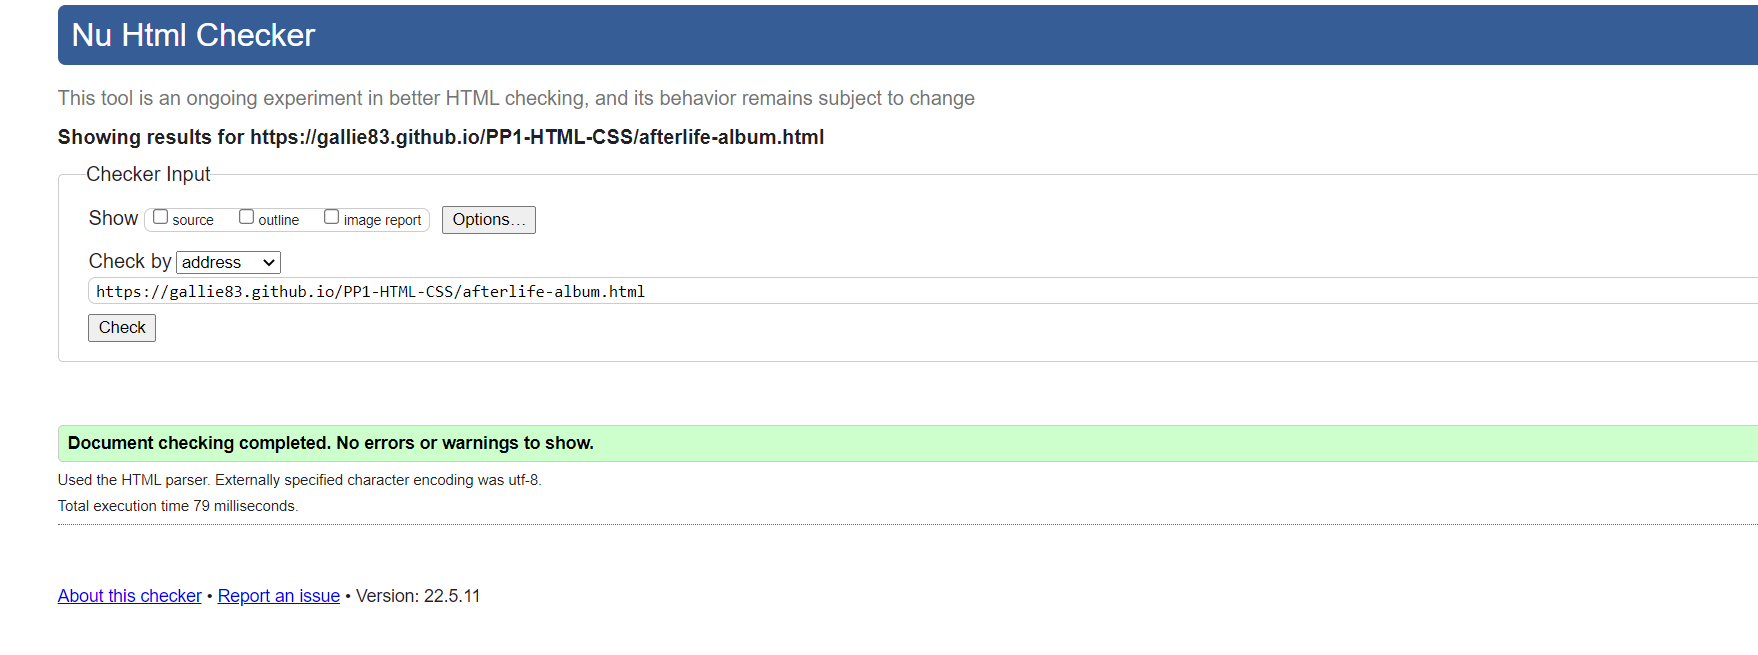
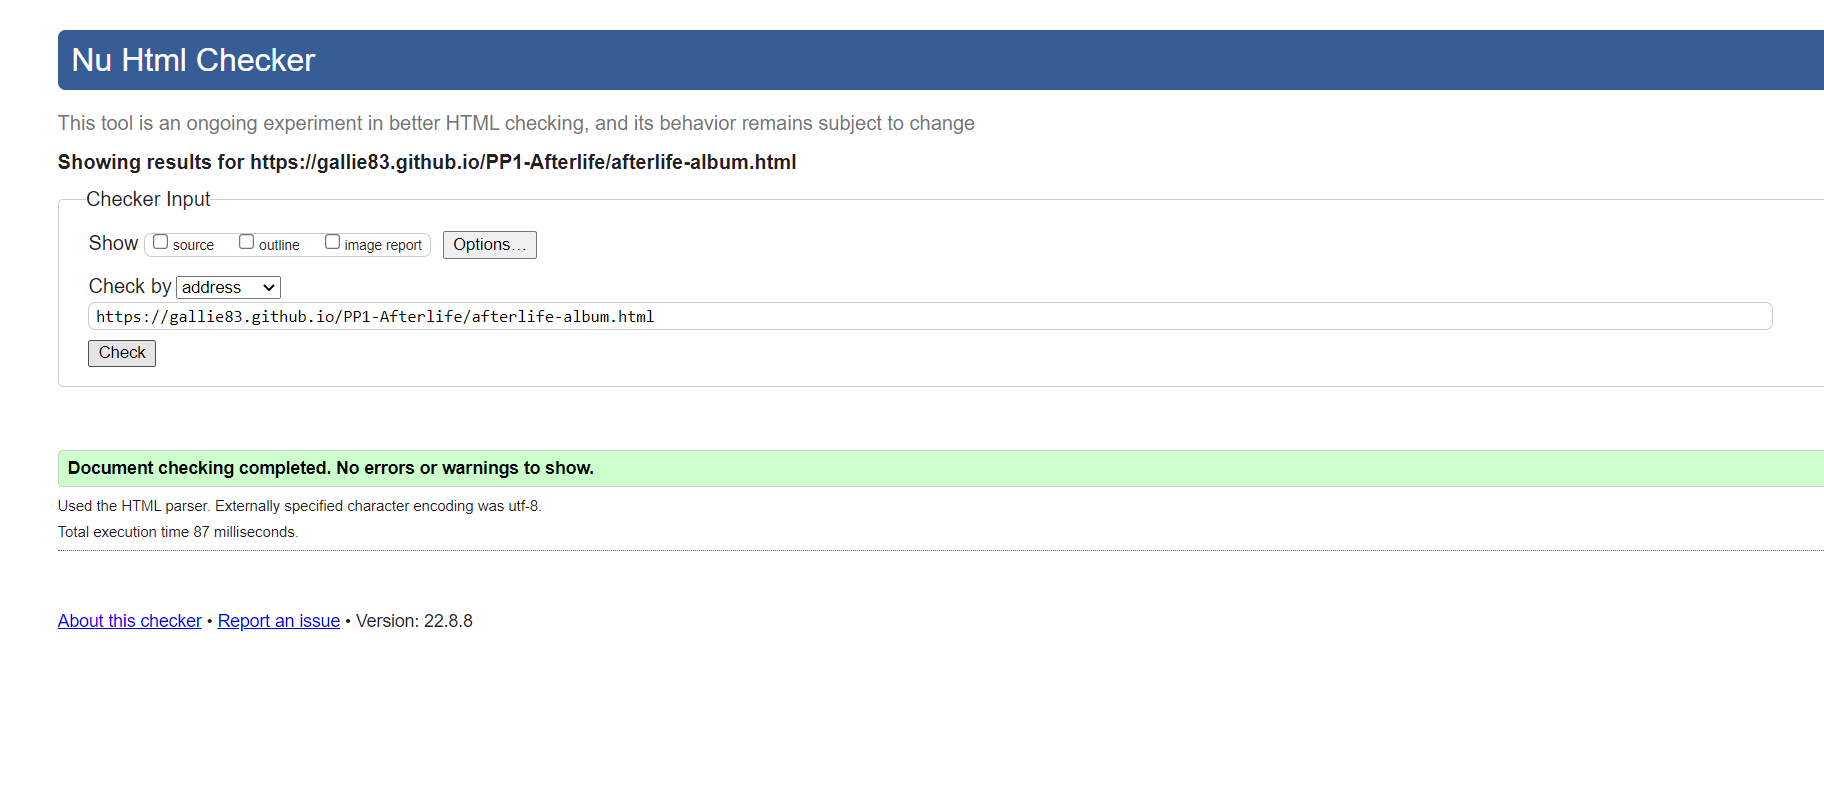
Updated read me and testing files

Changed region(s): [[0.0307, 0.0, 1.0, 0.5191], [0.0307, 0.5496, 1.0, 0.7939], [0.0307, 0.8855, 0.2765, 0.9466]]

diff --git a/Testing.md b/Testing.md
@@ -1,6 +1,6 @@
 # Testing
 ## Code Validation
-The Afterlife site has be throughly tested. All the code has been run through the [W3C html Validator](https://validator.w3.org/) and the [W3C CSS Validator](https://jigsaw.w3.org/css-validator/). Minor errors were found on the home and inspiration pages. After a fix and retest, no errors occured for either. 
+The Afterlife site has be throughly tested. All the code has been run through the [W3C html Validator](https://validator.w3.org/) and the [W3C CSS Validator](https://jigsaw.w3.org/css-validator/). Minor errors were found on the home page. After a fix and retest, no errors occured for either. 
 
 The HTML validator results for each page are below:
 
@@ -8,9 +8,6 @@ The HTML validator results for each page are below:
 
 ![W3C Validator test result](assets/readme-assets/home-test.png)
 
-[Home page testing link](https://validator.w3.org/nu/?doc=https%3A%2F%2Fgallie83.github.io%2FPP1-HTML-CSS%2Findex.html)
-
-There is an error message here as the form is not yet live.
 
 * Album page
 
@@ -30,13 +27,11 @@ This problem highlighted that there was an anchor tag inside a button. This was 
 * Contact page
 
 ![W3C Validator test result](assets/readme-assets/contact-test.png)
-[Contact testing link](https://validator.w3.org/nu/?doc=https%3A%2F%2Fgallie83.github.io%2FPP1-HTML-CSS%2Fafterlife-contact.html)
 
 The CSS validator results are below:
 
 ![CSS Validator test result](assets/readme-assets/css-test.png)
 
-[CSS test validation link](https://jigsaw.w3.org/css-validator/validator)
 ## Responsiveness Test
 
 * The responsive design tests were carried out manually with [Google Chrome DevTools](https://developer.chrome.com/docs/devtools/) and [Am I Responsive](https://ui.dev/amiresponsive/).
@@ -85,13 +80,10 @@ The site was also tested using [Google Lighthouse](https://developers.google.com
 
 ## Bugs
 * Solved
-    *There was a gap between the navbar and the pages content which I was unable to remove with padding or margin. I then changed the background color of the body to blend it in to the page so it would not be noticeable.
+    * There was a gap between the navbar and the pages content which I was unable to remove with padding or margin. I then changed the background color of the body to blend it in to the page so it would not be noticeable.
 
 * Un-Solved
     * I was unable to get the buttons to open links in a seperate tab while keeping the main website tab open.
-
-  *Testing page
-    * I was unable to link some of the images to this testing file although they are stored with the rest of the images.
       
     <br>
 

diff --git a/Readme.md b/Readme.md
@@ -115,7 +115,7 @@ The Afterlife site is set up to be clear and easy to navigate. It has many featu
 
 * ### Tour
 
-    * The tour page give the user a list of upcoming tour dates, with links to buy tickets under each date.
+    * The tour page gives the user a list of upcoming tour dates, with links to buy tickets under each date.
     * There is an image at the top of the screen showing the band playing live.
 ![Tour page image](assets/readme-assets/tour-screen.png)
 ![Tour page image](assets/readme-assets/tour-dates.png)
@@ -140,7 +140,7 @@ The Afterlife site is set up to be clear and easy to navigate. It has many featu
 * ### Contact 
     *The Contact page provides a chance for the user to connect with the band and ask any questions they have after navigating the information on the site. 
 
-    *There are 3 input areas and a sumbit button on the contact form. After the form is submitted it takes the user to the submit page.
+    *There are 3 input areas and a submit button on the contact form. After the form is submitted it takes the user to the submit page.
 
 ![Contact page image](assets/readme-assets/contact.png)
 
